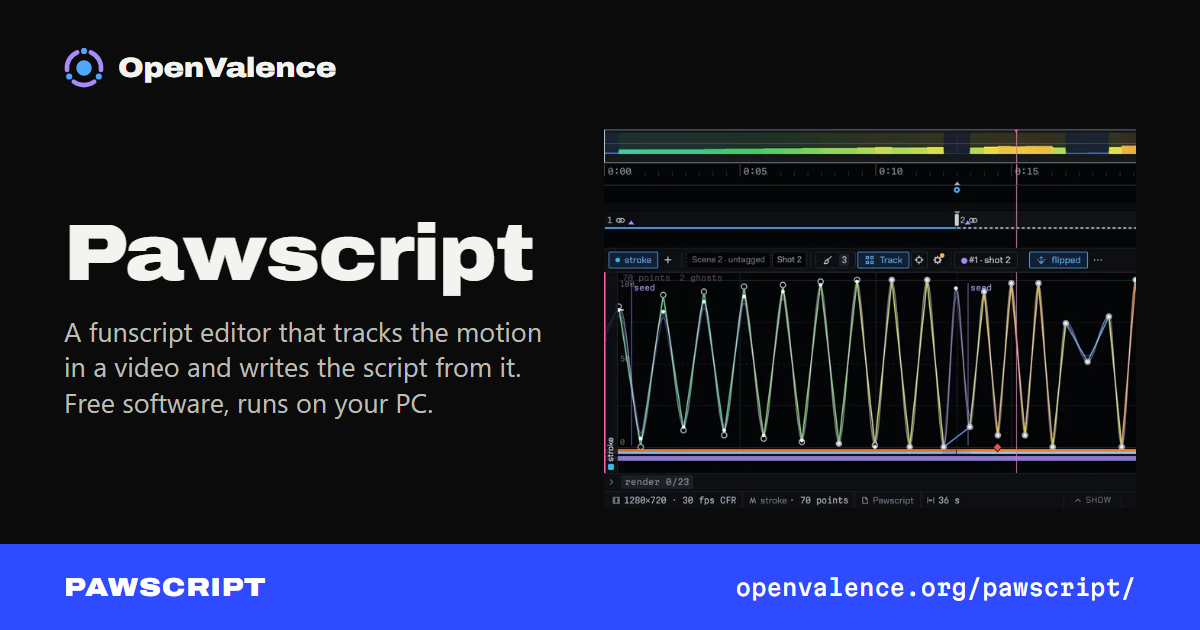
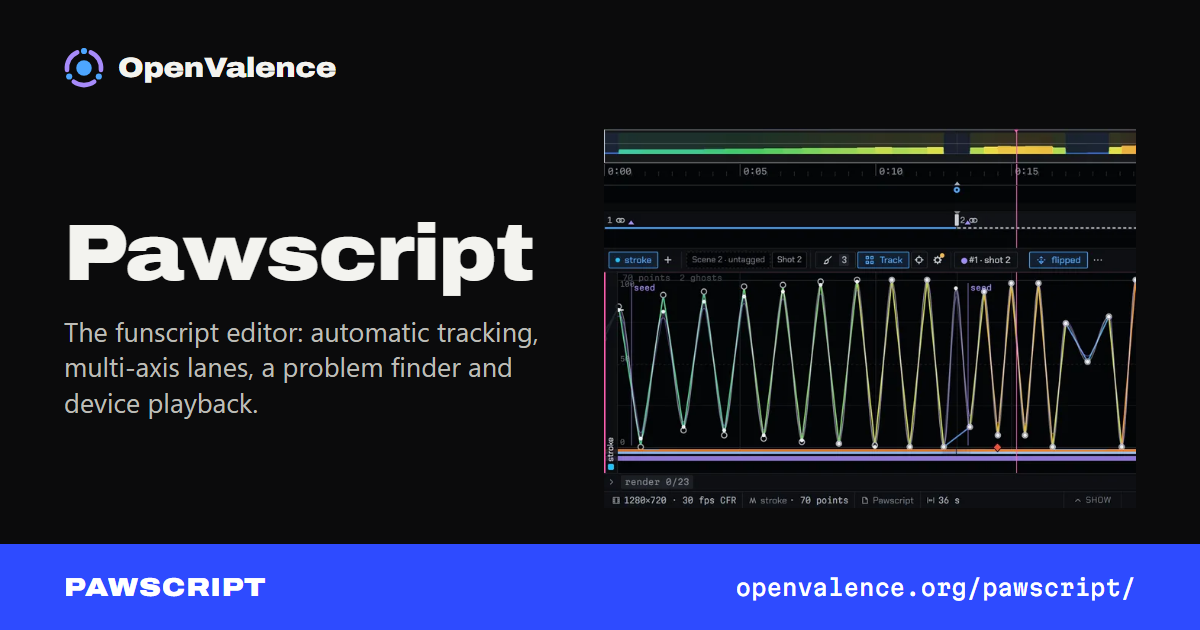
Pawscript page: the shape and voice of the Phosphor and Neutrino pages
Name and identity in the h1, a subject line, one paragraph on what it is built from with the license and the no-telemetry fact, the hero, a one-line Status, four headline features (Automatic tracking, Lanes and axes, Review, Devices) with numbers and links into the guide on GitHub, a More features list, then tightened requirements, Download and license. The walkthrough prose, Draft and Assist (leaving the app), plan and recipe internals, node graph presets, the .bak, proxy and undo details are out. The meta description and the card subject follow the new subject line.

Changed region(s): [[0.0308, 0.5127, 0.4625, 0.5429], [0.0617, 0.573, 0.4317, 0.6032], [0.0308, 0.6333, 0.37, 0.6635]]

diff --git a/pawscript/index.html b/pawscript/index.html
@@ -4,7 +4,7 @@
 <meta charset="utf-8">
 <meta name="viewport" content="width=device-width, initial-scale=1">
 <title>Pawscript: OpenValence</title>
-<meta name="description" content="Pawscript is a funscript editor for Windows. Tracking models follow the motion in a video and write a first script; you fix it, check it against your device and publish the .funscript.">
+<meta name="description" content="Pawscript is a funscript editor for Windows with automatic tracking, multi-axis lanes, a problem finder and playback on Buttplug toys and Valence hubs. Free software, GPL-3.0-or-later.">
 <link rel="canonical" href="https://openvalence.org/pawscript/">
 <meta property="og:type" content="website">
 <meta property="og:url" content="https://openvalence.org/pawscript/">
@@ -71,15 +71,15 @@
 <script src="https://stats.openvalence.org/stats.js" data-website-id="686ef328-490a-4ed2-b9df-1ce896b92dc3" data-domains="openvalence.org" data-do-not-track="true" defer></script>
 <meta property="og:site_name" content="OpenValence">
 <meta property="og:title" content="Pawscript: OpenValence">
-<meta property="og:description" content="Pawscript is a funscript editor for Windows. Tracking models follow the motion in a video and write a first script; you fix it, check it against your device and publish the .funscript.">
-<meta property="og:image" content="https://openvalence.org/images/og/pawscript.png?v=4876e96ddf">
+<meta property="og:description" content="Pawscript is a funscript editor for Windows with automatic tracking, multi-axis lanes, a problem finder and playback on Buttplug toys and Valence hubs. Free software, GPL-3.0-or-later.">
+<meta property="og:image" content="https://openvalence.org/images/og/pawscript.png?v=a60299b8ec">
 <meta property="og:image:width" content="1200">
 <meta property="og:image:height" content="630">
-<meta property="og:image:alt" content="Pawscript: OpenValence. Pawscript is a funscript editor for Windows. Tracking models follow the motion in a video and write a first script; you fix it, check it against your device and publish the .funscript.">
+<meta property="og:image:alt" content="Pawscript: OpenValence. Pawscript is a funscript editor for Windows with automatic tracking, multi-axis lanes, a problem finder and playback on Buttplug toys and Valence hubs. Free software, GPL-3.0-or-later.">
 <meta name="twitter:card" content="summary_large_image">
 <meta name="twitter:title" content="Pawscript: OpenValence">
-<meta name="twitter:description" content="Pawscript is a funscript editor for Windows. Tracking models follow the motion in a video and write a first script; you fix it, check it against your device and publish the .funscript.">
-<meta name="twitter:image" content="https://openvalence.org/images/og/pawscript.png?v=4876e96ddf">
+<meta name="twitter:description" content="Pawscript is a funscript editor for Windows with automatic tracking, multi-axis lanes, a problem finder and playback on Buttplug toys and Valence hubs. Free software, GPL-3.0-or-later.">
+<meta name="twitter:image" content="https://openvalence.org/images/og/pawscript.png?v=a60299b8ec">
 <!-- /chrome:head -->
 </head>
 <body>
@@ -120,13 +120,15 @@
 
 <main>
   <section class="opening">
-    <h1>Pawscript</h1>
-    <!-- Pawscript README.md "Pawscript", "What works"; docs/guide/README.md; LICENSE -->
-    <p class="lede">A funscript editor that tracks the motion in a video and writes the script from it. You correct it by hand and publish the <code>.funscript</code>.</p>
-    <p class="fine">Free software, <span class="nb">GPL-3.0-or-later</span>. Made for explicit content: for adults only (18+).</p>
+    <h1>Pawscript, the funscript editor</h1>
+    <!-- Pawscript README.md "Pawscript", "State of the project", "Privacy", "Licensing"; docs/guide/README.md -->
+    <p class="lede">A funscript editor for Windows with automatic tracking, multi-axis lanes, a problem finder and playback on Buttplug toys and Valence hubs.</p>
+    <p>One Svelte 5 and Tauri 2 app with a small Rust backend and a Python tracker. Tracking models follow the motion in a video and write the script, and you finish it on the lanes. Free software under <span class="nb">GPL-3.0-or-later</span>. No telemetry: the app goes online only when you download models or check for an update.</p>
+    <p class="fine">Made for explicit content. For adults only (18+).</p>
     <div class="btns">
-      <a class="btn go" href="https://github.com/openvalence/Pawscript/releases/latest"><svg class="ico" aria-hidden="true"><use href="/icons/ui.svg#down"/></svg>Get Pawscript</a>
-      <a class="btn" href="https://github.com/openvalence/Pawscript">Source</a>
+      <a class="btn go" href="/downloads/#s-pawscript"><svg class="ico" aria-hidden="true"><use href="/icons/ui.svg#down"/></svg>Get Pawscript</a>
+      <a class="btn" href="https://github.com/openvalence/Pawscript/blob/main/docs/guide/README.md">Guide</a>
+      <a class="btn" href="https://github.com/openvalence/Pawscript">Repo</a>
     </div>
   </section>
 
@@ -137,106 +139,73 @@
   </figure>
   </div>
 
-  <section aria-labelledby="s-overview">
-    <h2 class="xl" id="s-overview">Overview<a class="hl" href="#s-overview" aria-label="Copy link to this section"></a></h2>
-    <!-- docs/guide/quick-start.md steps 1-9; README.md "State of the project", "Privacy", "Licensing" -->
-    <p>Open a video and Pawscript finds the cuts. Paint the moving parts on one frame of a shot, and a tracking model follows them through the shot. The tracked motion is your script at once, drawn on the stroke lane. Flip the direction, set the depth with anchors and edit points by hand, then publish a <code>.funscript</code> beside the video. If you have used OpenFunscripter, the layout is familiar: video on top, lanes below and a playhead.</p>
-    <p>Pawscript is free software and will never be sold. It is licensed under <span class="nb">GPL-3.0-or-later</span>, and the source is on <a href="https://github.com/openvalence/Pawscript">GitHub</a>.</p>
-    <p>Editing and tracking run on your PC. The app goes online only when you press Download for models or Check for updates. It sends no telemetry and has no account.</p>
+  <section class="aside" aria-labelledby="s-status">
+    <h2 id="s-status">Status<a class="hl" href="#s-status" aria-label="Copy link to this section"></a></h2>
+    <!-- README.md "State of the project" -->
+    <p>Early access, Windows only. Builds are on <a href="/downloads/#s-pawscript">Downloads</a>.</p>
   </section>
 
   <section aria-labelledby="s-features">
     <h2 class="xl" id="s-features">Features<a class="hl" href="#s-features" aria-label="Copy link to this section"></a></h2>
-
-    <h3 id="video-and-tracking">Video and tracking<a class="hl" href="#video-and-tracking" aria-label="Copy link to this section"></a></h3>
-    <!-- docs/guide/tracking.md "Trackers", "Scenes, describe, loop", "From run to script: live and Bake"; quick-start.md steps 2-7; requirements.md "A video does not play" -->
     <ul class="facts">
-      <li><b>Scenes</b><p>Scene detection finds hard cuts, fades to black, dissolves and still frames. You can add, merge and move cuts, and mark camera moves.</p></li>
-      <li><b>Trackers</b><p>TAPNext++ points and SAM 2.1 masks run on the graphics card. Optical flow and template match run on the CPU.</p></li>
-      <li><b>Parts</b><p>Paint the parts on one frame. Inside a scene they carry over the cuts by name.</p></li>
-      <li><b>Direction and depth</b><p>Flip a shot's direction, and set its depth with anchors at fully in and fully out. Bake a shot so a re-track no longer moves it.</p></li>
-      <li><b>Tags and loops</b><p>A shot tagger tags each scene. The loop finder marks exact loops.</p></li>
-      <li><b>Video files</b><p>mp4, m4v, mkv, webm, mov and avi. A 480p proxy plays smoothly while the tracker reads the original.</p></li>
+      <li><b>Automatic tracking</b>
+        <!-- docs/guide/tracking.md "Trackers", "GPU notes" (RTX 4090, 1080p: TAPNext++ 256 chunk 8 about 25 fps), "Groups (Tab)" step 7 (seeder: 5 painted examples from 2 videos), "From run to script: live and Bake" -->
+        <p>Paint the parts on one frame and TAPNext++ or SAM 2.1 follows them through the shot. The run is your script as soon as it lands. On an RTX 4090 at 1080p, TAPNext++ tracks about 25 frames a second. The seeder learns the parts from what you paint and suggests them on new frames once it has at least 5 painted examples of a part from 2 videos.</p>
+        <p class="links"><a href="https://github.com/openvalence/Pawscript/blob/main/docs/guide/tracking.md">Tracking guide</a></p></li>
+      <li><b>Lanes and axes</b>
+        <!-- docs/guide/editing.md "Transform tools reference" (50 tools; src/lib/edit/index.js OPS); getting-started.md "Open a video" (axes); keys.md "Keymaps" -->
+        <p>Stroke plus roll, pitch, twist, surge, sway, vib and more, each on its own lane and written as its own funscript. About 50 transform tools shape amplitude, time, density, speed, rhythm and variation, each with a preview before it applies. Blender and OpenFunscripter keymaps.</p>
+        <p class="links"><a href="https://github.com/openvalence/Pawscript/blob/main/docs/guide/editing.md">Editing guide</a></p></li>
+      <li><b>Review</b>
+        <!-- docs/guide/review.md "Problems" (reruns about 140 ms after an edit), "What it finds" (16 kinds, 13 with a fix), "Machine preview" -->
+        <p>The problem finder checks the script against a device profile for 16 kinds of problem, such as overspeed, points too close and long gaps, and fixes 13 of them in one step. It reruns about 140 ms after each edit. The machine preview moves the way the device will.</p>
+        <p class="links"><a href="https://github.com/openvalence/Pawscript/blob/main/docs/guide/review.md">Review guide</a></p>
+        <figure class="docshot"><picture><source srcset="/images/pawscript/review-light.webp" data-hi="/images/pawscript/hi/review-light.webp" media="(prefers-color-scheme: light)"><img src="/images/pawscript/review-dark.webp" data-hi="/images/pawscript/hi/review-dark.webp" width="498" height="466" alt="The Pawscript Review tab's machine preview, showing the stroke position on a vertical rail with the speed readout, beside the Problems panel listing one speed-limit warning for the Generic stroker profile." loading="lazy" decoding="async"></picture>
+          <figcaption>The machine preview and the Problems panel.</figcaption></figure></li>
+      <li><b>Devices</b>
+        <!-- docs/guide/playback.md (Buttplug: BLE, serial, HID; Valence: segments stamped 100 ms ahead plus the hub's latency; panic stop from anywhere) -->
+        <p>A Buttplug server inside the app drives toys over Bluetooth LE, serial and HID, in sync with the video. On a Valence hub such as <a href="/nucleus/">Nucleus</a> or <a href="/neutrino/">Neutrino</a>, Pawscript sends timed segments at least 100 ms ahead and the hub plans the motion within its own limits. The panic stop works from anywhere in the app.</p>
+        <p class="links"><a href="https://github.com/openvalence/Pawscript/blob/main/docs/guide/playback.md">Device playback guide</a></p></li>
     </ul>
+  </section>
 
-    <h3 class="mt" id="draft-and-assist">Draft and Assist<a class="hl" href="#draft-and-assist" aria-label="Copy link to this section"></a></h3>
-    <!-- docs/guide/draft-and-assist.md -->
-    <ul class="facts">
-      <li><b>Draft</b><p>Runs scene detection, scene tags, a loop check, a first plan, a base track and Generate over the whole video. Each step is one undo entry.</p></li>
-      <li><b>Assist</b><p>Asks the questions Draft cannot answer, one at a time, such as which of two frames is deeper. The questions with the most effect on the script come first.</p></li>
-    </ul>
-
-    <h3 class="mt" id="editing">Editing<a class="hl" href="#editing" aria-label="Copy link to this section"></a></h3>
-    <!-- docs/guide/editing.md; keys.md "Keymaps" -->
-    <ul class="facts">
-      <li><b>Points</b><p>Place points from the keyboard or with the mouse, in the Blender or the OpenFunscripter keymap. Every binding can be changed.</p></li>
-      <li><b>Transform tools</b><p>Amplitude, time, density, speed, rhythm and variation tools, each with a preview before you apply it.</p></li>
-      <li><b>Fix a section</b><p>Re-track, regenerate, flip, scale or retime one stretch. Points outside it stay where they are.</p></li>
-      <li><b>Axes</b><p>Stroke plus roll, pitch, twist, surge, sway, vib and more, each on its own lane and written as its own funscript.</p></li>
-    </ul>
-
-    <h3 class="mt" id="generators-and-the-node-graph">Generators and the node graph<a class="hl" href="#generators-and-the-node-graph" aria-label="Copy link to this section"></a></h3>
-    <!-- docs/guide/generators.md "The plan in one pass", "Recipes"; graph.md, "Presets" -->
-    <ul class="facts">
-      <li><b>Plan and Generate</b><p>Lay out a scene as plan segments, each with a kind and a recipe, and Generate writes the points. Where tracker runs exist, the follow recipes put the extremes on the tracked turning points.</p></li>
-      <li><b>Node graph</b><p>Wire axes, tracker runs, the plan and the scenes through nodes. The document changes only when you bake, in one undo step. Presets cover tracker clean-up, roll from the stroke and more.</p></li>
-    </ul>
-
-    <div class="split mt">
-      <figure><picture><source srcset="/images/pawscript/review-light.webp" data-hi="/images/pawscript/hi/review-light.webp" media="(prefers-color-scheme: light)"><img src="/images/pawscript/review-dark.webp" data-hi="/images/pawscript/hi/review-dark.webp" width="498" height="466" alt="The Pawscript Review tab's machine preview, showing the stroke position on a vertical rail with the speed readout, beside the Problems panel listing one speed-limit warning for the Generic stroker profile." loading="lazy" decoding="async"></picture></figure>
-      <div>
-        <h3 id="review">Review<a class="hl" href="#review" aria-label="Copy link to this section"></a></h3>
-        <!-- docs/guide/review.md "Problems", "Device profiles", "Statistics", "Compare", "Machine preview" -->
-        <ul>
-          <li>The problem finder checks the script against a device profile: speed limit, points too close, long gaps, jitter, points past the end of the video. Walk the list and apply each problem's fix in one step.</li>
-          <li>Statistics: strokes per minute, speed percentiles, the share of segments over the limit, per chapter.</li>
-          <li>Compare the script against a reference funscript or a tracker run, and adopt the parts you want.</li>
-          <li>The machine preview moves as the device will. With a planner profile, such as Nucleus, it shows where the planner will reshape a stroke.</li>
-        </ul>
-      </div>
-    </div>
-
-    <h3 id="saving-and-export">Saving and export<a class="hl" href="#saving-and-export" aria-label="Copy link to this section"></a></h3>
-    <!-- docs/guide/getting-started.md "Save, commit, publish", "Checkpoints and recovery"; docs/formats/pawpack.md; README.md "What works" -->
-    <ul class="facts">
-      <li><b>Continuous projects</b><p>The project writes itself about a second after each change and survives the app being killed in the middle of a write. There is no Save for the project.</p></li>
-      <li><b>Commit and publish</b><p>A commit stores a named point with an optional note. Publish writes every axis as a funscript beside the video, numbered v1, v2 and on.</p></li>
-      <li><b>Other people's files</b><p>The first overwrite of a funscript Pawscript did not write keeps the original as <code>name.bak</code>.</p></li>
-      <li><b>Export and packs</b><p>Export all axes, one axis or a device-safe copy. Pack project writes one <code>.pawpack</code> with the video, the scripts and the project; every file's SHA-256 is checked when it opens.</p></li>
-      <li><b>Tabs</b><p>Several projects open as tabs. A track keeps running in a tab you are not looking at.</p></li>
-    </ul>
-
-    <h3 class="mt" id="devices">Devices<a class="hl" href="#devices" aria-label="Copy link to this section"></a></h3>
-    <!-- docs/guide/playback.md; README.md "Privacy" items 2 and 5 -->
-    <ul class="facts">
-      <li><b>Buttplug</b><p>A Buttplug server inside the app plays the stroke axis on a toy over Bluetooth LE, serial or HID, in sync with the video.</p></li>
-      <li><b>Valence hub</b><p>Works with <a href="/nucleus/">Nucleus</a> and <a href="/neutrino/">Neutrino</a> over WebSocket. Pawscript sends timed segments and the hub plans the motion within its own limits.</p></li>
-      <li><b>Panic stop</b><p>Works from anywhere in the app, text fields included. On a Valence hub it also pauses the hub, and Pawscript never resumes motion by itself.</p></li>
+  <section aria-labelledby="s-more">
+    <h2 class="xl" id="s-more">More features<a class="hl" href="#s-more" aria-label="Copy link to this section"></a></h2>
+    <!-- docs/guide/tracking.md "Scenes, describe, loop"; getting-started.md "Open a video", "Save, commit, publish", "Themes and density"; graph.md; review.md "Statistics", "Compare"; docs/formats/pawpack.md -->
+    <ul class="facts three">
+      <li><b>Scenes and cuts</b><p>Finds hard cuts, fades, dissolves and still frames. You add, merge and move cuts.</p></li>
+      <li><b>Scene tags</b><p>A shot tagger tags each scene.</p></li>
+      <li><b>Loops</b><p>The loop finder marks exact loops in a scene.</p></li>
+      <li><b>Continuous projects</b><p>The project writes itself about a second after each change.</p></li>
+      <li><b>Commit and publish</b><p>Commits with notes. Publish writes numbered funscripts beside the video.</p></li>
+      <li><b>Export</b><p>All axes, one axis or a device-safe copy.</p></li>
+      <li><b>Packs</b><p>One <code>.pawpack</code> file holds the video, the scripts and the project.</p></li>
+      <li><b>Tabs</b><p>Several projects at once. A track keeps running in a hidden tab.</p></li>
+      <li><b>Node graph</b><p>Wire axes and tracker runs through nodes. The document changes when you bake.</p></li>
+      <li><b>Statistics and compare</b><p>Speeds and strokes per minute by chapter, and a diff against a reference funscript.</p></li>
+      <li><b>Video formats</b><p>mp4, m4v, mkv, webm, mov and avi.</p></li>
+      <li><b>Themes</b><p>Dark, light and high contrast.</p></li>
     </ul>
   </section>
 
   <section aria-labelledby="s-req">
     <h2 class="xl" id="s-req">System requirements<a class="hl" href="#s-req" aria-label="Copy link to this section"></a></h2>
-    <!-- docs/guide/requirements.md "What you need", "Graphics memory per tracker setting"; dev/share/README.txt "WHAT YOU NEED"; AMD: docs/BUILDING.md (runtime-rocm), dev/share/runtime/runtime-rocm-2026-11-19.txt, src/features/models/logic.js RUNTIME_WORDS -->
+    <!-- docs/guide/requirements.md "What you need", "Graphics memory per tracker setting"; AMD: docs/BUILDING.md (runtime-rocm), dev/share/runtime/runtime-rocm-2026-11-19.txt, src/features/models/logic.js RUNTIME_WORDS -->
     <ul class="facts">
-      <li><b>Windows</b><p>Windows 10 or 11, 64-bit. A portable folder: no installer, no admin rights. Windows 10 may need the WebView2 Runtime from Microsoft.</p></li>
-      <li><b>Disk and folder</b><p>About 15 GB free. Keep the folder on a local drive with a short path, such as <code>C:\Pawscript</code>. The app refuses to start inside OneDrive, Dropbox, Google Drive or iCloud.</p></li>
-      <li><b>NVIDIA</b><p>GTX 16xx or RTX 20xx and newer, RTX 50xx included, with driver 580 or newer. The runtime is PyTorch on CUDA 13.0. The default tracker settings use about 4 GB of video memory; the larger TAPNext++ model wants about 8 GB.</p></li>
-      <li><b>AMD</b><p>A second runtime uses PyTorch on ROCm for Radeon RX 9000 and RX 7000 cards and the Radeon 780M and 760M, with Adrenalin 26.11.2 or newer. The app picks the runtime for your card.</p></li>
-      <li><b>Without a supported card</b><p>The editor, playback and the CPU trackers work. TAPNext++, SAM 2.1 and the shot tagger need the card. GTX 9xx and GTX 10xx cards are not supported.</p></li>
-      <li><b>Other systems</b><p>Linux and macOS are not built yet.</p></li>
+      <li><b>Windows</b><p>Windows 10 or 11, 64-bit, about 15 GB free. A portable folder on a local drive, outside OneDrive and other synced folders.</p></li>
+      <li><b>NVIDIA</b><p>GTX 16xx or RTX 20xx and newer, driver 580 or newer, PyTorch on CUDA 13.0. The default settings use about 4 GB of video memory.</p></li>
+      <li><b>AMD</b><p>Radeon RX 9000 and RX 7000, and the Radeon 780M and 760M, on a PyTorch ROCm runtime. Adrenalin 26.11.2 or newer.</p></li>
+      <li><b>Without a supported card</b><p>The editor, playback and the CPU trackers work. TAPNext++, SAM 2.1 and the shot tagger need the card.</p></li>
     </ul>
   </section>
 
   <section class="aside" aria-labelledby="s-download">
     <h2 id="s-download">Download<a class="hl" href="#s-download" aria-label="Copy link to this section"></a></h2>
-    <!-- dev/share/README.txt "GETTING IT", "UPDATING", "Guide\"; docs/guide/requirements.md "Windows protected your PC"; README.md "State of the project" (What is rough), "Privacy" items 6 and 7 -->
+    <!-- dev/share/README.txt "GETTING IT", "UPDATING"; docs/guide/requirements.md "Windows protected your PC"; README.md "Privacy" items 6 and 7 -->
     <div>
-      <p>Get <code>Pawscript.zip</code> from the <a href="https://github.com/openvalence/Pawscript/releases/latest">latest release on GitHub</a>. This site never hosts binaries. Extract it into a folder of its own and start <code>Pawscript.exe</code>. The first start asks which models you want, then downloads the runtime (2.3 GB) and those models. The user guide is in the <code>Guide</code> folder of the download.</p>
-      <p>The exe is not code-signed. If Windows SmartScreen stops it, click More info, then Run anyway.</p>
-      <p><b>Verify:</b> the runtime and the tracking models download from <code>dl.openvalence.org</code>, and the app checks every file against the SHA-256 in the manifest built into it before it keeps the file.</p>
-      <p>Help &gt; Check for updates installs an update only when its signature matches the key built into the app.</p>
-      <p class="fine">Early access: a few actions can still fail without a message, so commit as you go.</p>
+      <p>Get <code>Pawscript.zip</code> from the <a href="https://github.com/openvalence/Pawscript/releases/latest">latest release on GitHub</a>. This site never hosts binaries. Extract it into a folder of its own and start <code>Pawscript.exe</code>; the first start downloads the runtime (2.3 GB) and the models you pick.</p>
+      <p>The exe is not code-signed. If SmartScreen stops it, click More info, then Run anyway.</p>
+      <p><b>Verify:</b> the runtime and the tracking models come from <code>dl.openvalence.org</code>, and the app checks each file against the SHA-256 in the manifest built into it.</p>
     </div>
   </section>
 
@@ -244,10 +213,8 @@
     <h2 id="s-source">Source and license<a class="hl" href="#s-source" aria-label="Copy link to this section"></a></h2>
     <!-- README.md "Licensing"; LICENSE; docs/guide/cotracker.md -->
     <div>
-      <p>The source is on <a href="https://github.com/openvalence/Pawscript">GitHub</a> under <span class="nb">GPL-3.0-or-later</span>. The file format specifications (<code>.pawproj</code>, <code>.pawruns</code>, <code>.pawpack</code>) are <span class="nb">CC BY 4.0</span>, and the scripts and projects you make are yours.</p>
-      <p>CoTracker3 is not included: its license allows non-commercial use only. TAPNext++ is the point tracker.</p>
-      <p>Pawscript is made for explicit content. For adults only (18+).</p>
-      <p class="links"><a href="https://github.com/openvalence/Pawscript">Source</a> · <a href="https://github.com/openvalence/Pawscript/releases/latest">Releases</a> · <a href="/phosphor/">Phosphor</a> · <a href="/downloads/">Downloads</a></p>
+      <p>Source on <a href="https://github.com/openvalence/Pawscript">GitHub</a>, <span class="nb">GPL-3.0-or-later</span>. The file format specifications are <span class="nb">CC BY 4.0</span>. CoTracker3 is not included: its license is non-commercial only.</p>
+      <p class="links"><a href="https://github.com/openvalence/Pawscript">Repo</a> · <a href="https://github.com/openvalence/Pawscript/blob/main/docs/guide/README.md">Guide</a> · <a href="https://github.com/openvalence/Pawscript/releases/latest">Releases</a> · <a href="/downloads/">Downloads</a></p>
     </div>
   </section>
 </main>
